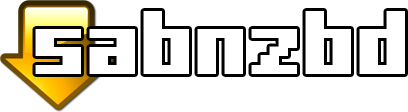
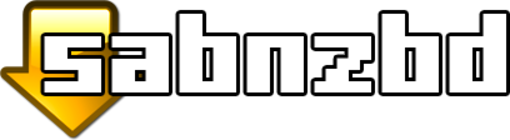
Added clickable links. Shrank images.

diff --git a/templates/index.html b/templates/index.html
@@ -16,7 +16,7 @@
 {% if loop.index is not divisibleby 2 %} 
 <div class="row">
 {% endif %}
-  <div class="col-sm-12 col-md-6 dashboard-piece imgbtn {{item['div']}}" data-id="{{item['class']}}">
+<div class="col-sm-12 col-md-6 dashboard-piece imgbtn {{item['div']}}" data-id="{{item['class']}}" data-link="{{item['url']}}">
       <div class="dummy"> </div>
       <div class="img-container">
       <img class="u-max-full-width {{item['class']}}" src="{{ url_for('static', filename=item['img'])}}">
@@ -29,5 +29,10 @@
 </div>
 
 <script src='//cdnjs.cloudflare.com/ajax/libs/jquery/2.1.3/jquery.min.js'></script>
+<script>
+$('.imgbtn').click(function(){
+    window.location.href = $(this).data('link');
+});
+</script>
 </body></html>
 

diff --git a/app.py b/app.py
@@ -4,10 +4,10 @@ app = Flask(__name__)
 @app.route('/')
 def light_grid():
     items = [
-            {'class':'sabnzbd', 'img':'assets/sabnzbd.png', 'div':'sabdiv'},
-            {'class':'plexlogo', 'img':'assets/plex.png', 'div':'pldiv'},
-            {'class':'sickbeard', 'img':'assets/sickbeard.png', 'div':'sbdiv'},
-            {'class':'milight', 'img':'assets/light.png', 'div':'lidiv'} 
+            {'class':'sabnzbd', 'img':'assets/sabnzbd.png', 'div':'sabdiv', 'url':'https://home.holderness.io:10091'},
+            {'class':'plexlogo', 'img':'assets/plex.png', 'div':'pldiv', 'url':'http://home.holderness.io:32400/web'},
+            {'class':'sickbeard', 'img':'assets/sickbeard.png', 'div':'sbdiv', 'url':'https://home.holderness.io:10081'},
+            {'class':'milight', 'img':'assets/light.png', 'div':'lidiv', 'url':'http://home.holderness.io:8000'} 
             ];
     return render_template('index.html', items=items)
 
